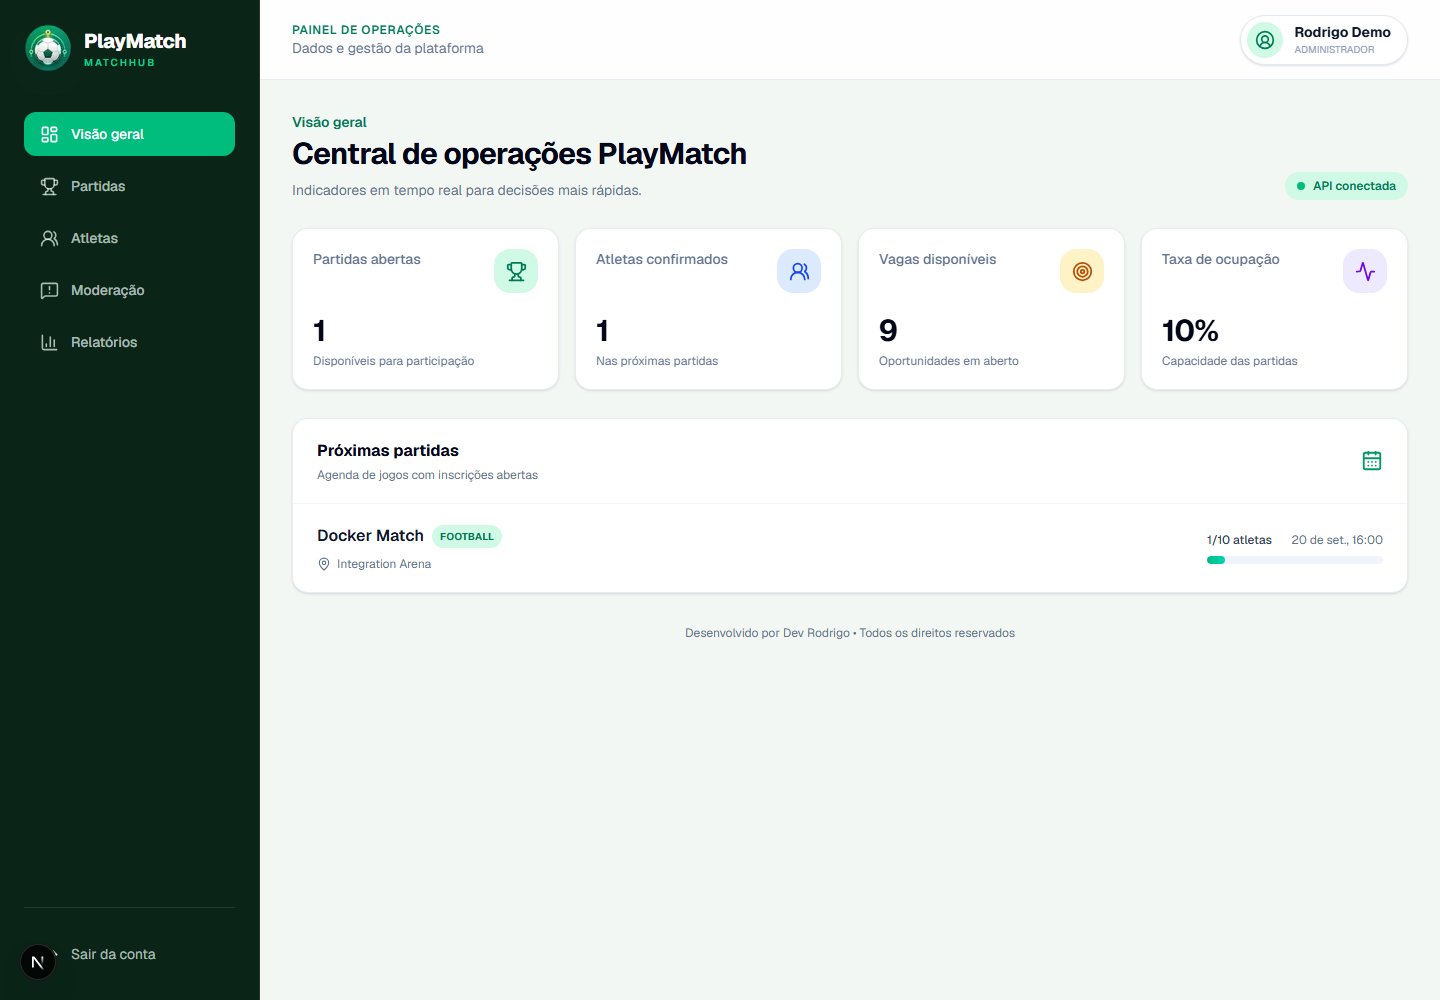
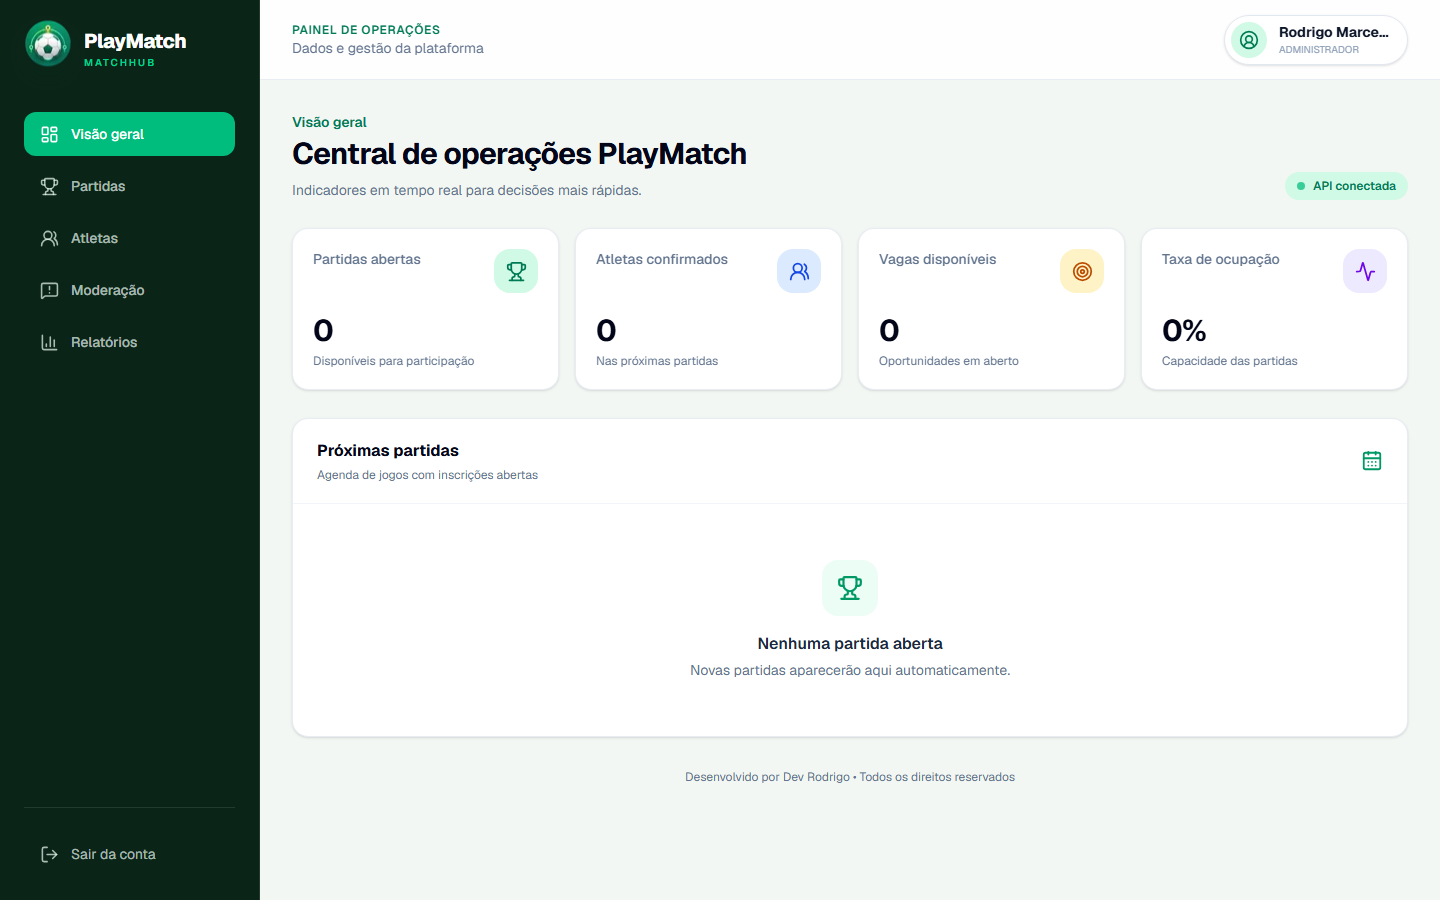
Expandir prévia rotativa do MatchHub Dashboard

diff --git a/styles/case-study.css b/styles/case-study.css
@@ -5,4 +5,5 @@
 @media(min-width:901px){.case-cover.phone-cover .ritmorax-phone{width:clamp(250px,20vw,330px);height:auto;aspect-ratio:25/48}}
 @media(min-width:1400px){.project-page .container{width:min(1320px,calc(100% - 80px))}.case-cover.phone-cover>img{width:clamp(245px,20vw,330px)}}
 @media(min-width:901px){body:has(.case-cover img[src*="matchhub/dashboard"]) .container{width:min(1320px,calc(100% - clamp(40px,4vw,80px)))}body:has(.case-cover img[src*="matchhub/dashboard"]) .case-hero,body:has(.case-cover img[src*="matchhub/dashboard"]) .case-section{padding-block:clamp(80px,7vw,120px)}body:has(.case-cover img[src*="matchhub/dashboard"]) .fact-grid,body:has(.case-cover img[src*="matchhub/dashboard"]) .content-grid,body:has(.case-cover img[src*="matchhub/dashboard"]) .results-grid{gap:clamp(14px,1.4vw,24px)}body:has(.case-cover img[src*="matchhub/dashboard"]) .fact-grid article,body:has(.case-cover img[src*="matchhub/dashboard"]) .content-card,body:has(.case-cover img[src*="matchhub/dashboard"]) .result-card,body:has(.case-cover img[src*="matchhub/dashboard"]) .architecture article{padding:clamp(20px,2vw,34px)}body:has(.case-cover img[src*="matchhub/dashboard"]) .case-cover{padding:clamp(18px,2vw,30px)}body:has(.case-cover img[src*="matchhub/dashboard"]) .case-cta-card{padding:clamp(48px,5vw,76px)}}
+@media(min-width:901px){body:has(.case-cover img[src*="matchhub/dashboard"]) .case-hero-grid{grid-template-columns:minmax(0,.82fr) minmax(0,1.18fr);gap:clamp(42px,5vw,78px)}}
 

diff --git a/js/main.js b/js/main.js
@@ -30,11 +30,15 @@ if (ritmoraxShowcase) {
   }, 3200);
 }
 
-const dashboardStudyImage = document.querySelector('.project-page .case-section .case-cover img[src*="matchhub/dashboard.png"]');
+const dashboardStudyImage = document.querySelector('.project-page .case-hero .case-cover img[src*="matchhub/dashboard.png"]');
 if (dashboardStudyImage) {
   const screens = [
-    { src: '../assets/matchhub/dashboard.png', alt: 'Indicadores e partidas no MatchHub Dashboard' },
+    { src: '../assets/matchhub/dashboard.png', alt: 'Visão geral do MatchHub Dashboard' },
     { src: '../assets/matchhub/dashboard-login.png', alt: 'Tela de login segura do MatchHub Dashboard' },
+    { src: '../assets/matchhub/partidas.png', alt: 'Gestão de partidas no MatchHub Dashboard' },
+    { src: '../assets/matchhub/atletas.png', alt: 'Gestão de atletas no MatchHub Dashboard' },
+    { src: '../assets/matchhub/moderacao.png', alt: 'Área de moderação no MatchHub Dashboard' },
+    { src: '../assets/matchhub/relatorios.png', alt: 'Relatórios operacionais no MatchHub Dashboard' },
   ];
   let current = 0;
   dashboardStudyImage.classList.add('study-dashboard-screen');
